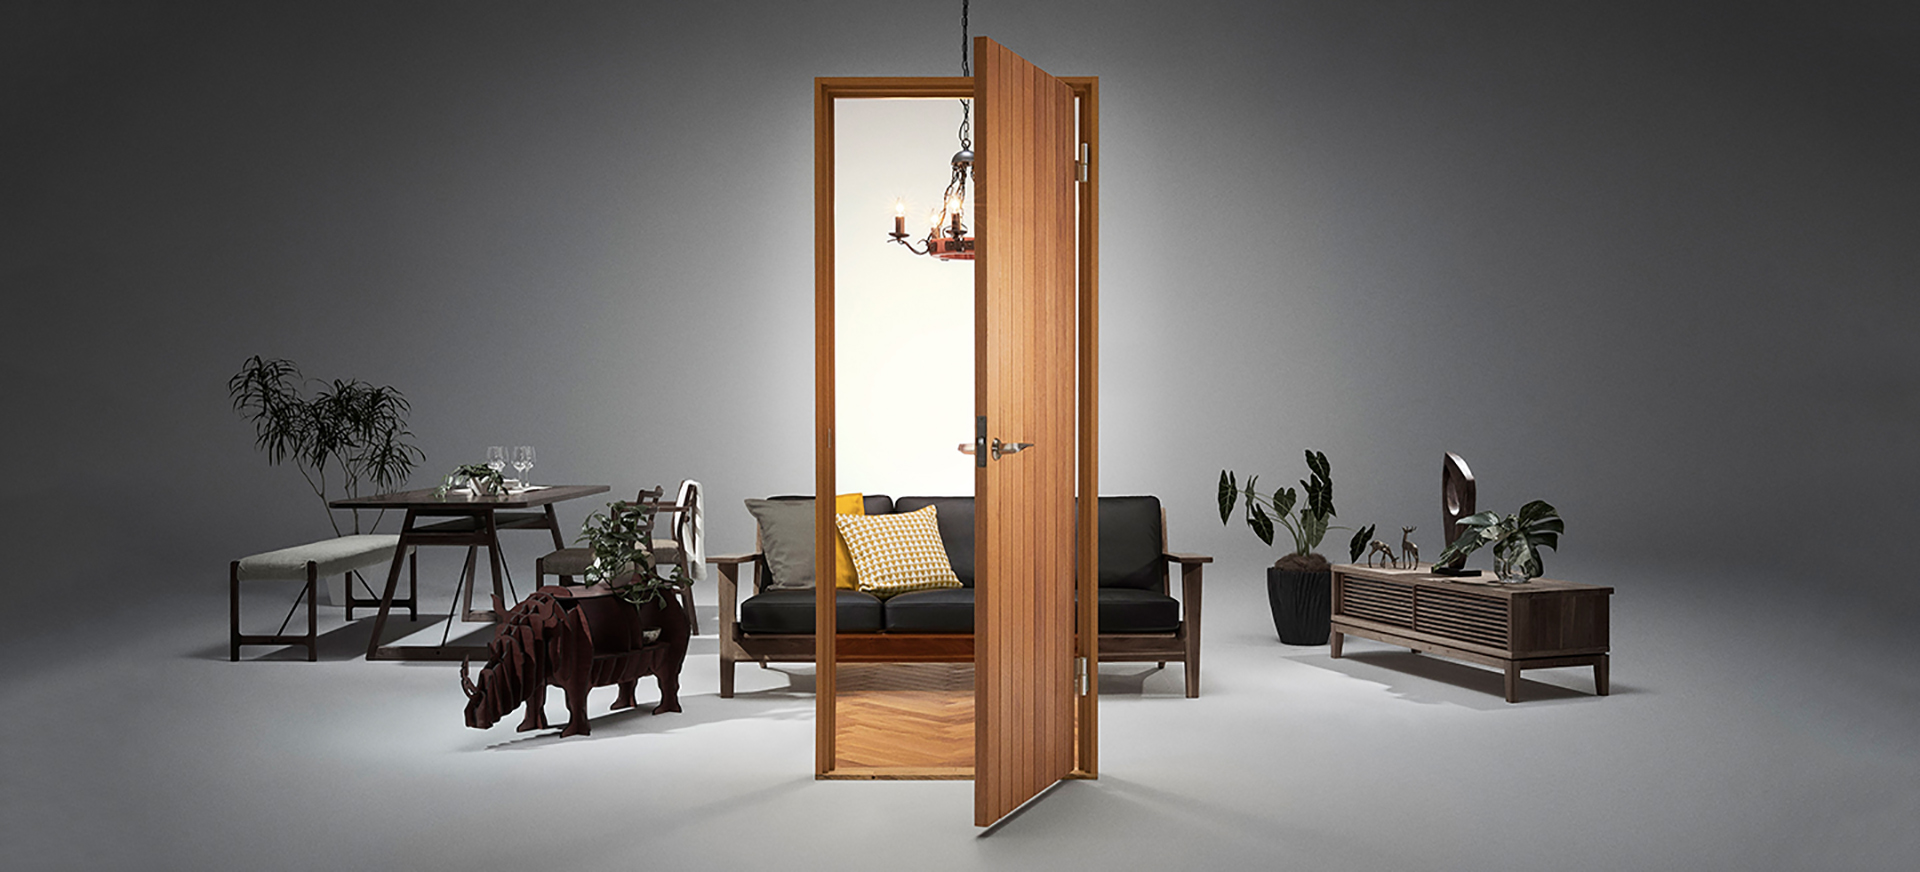
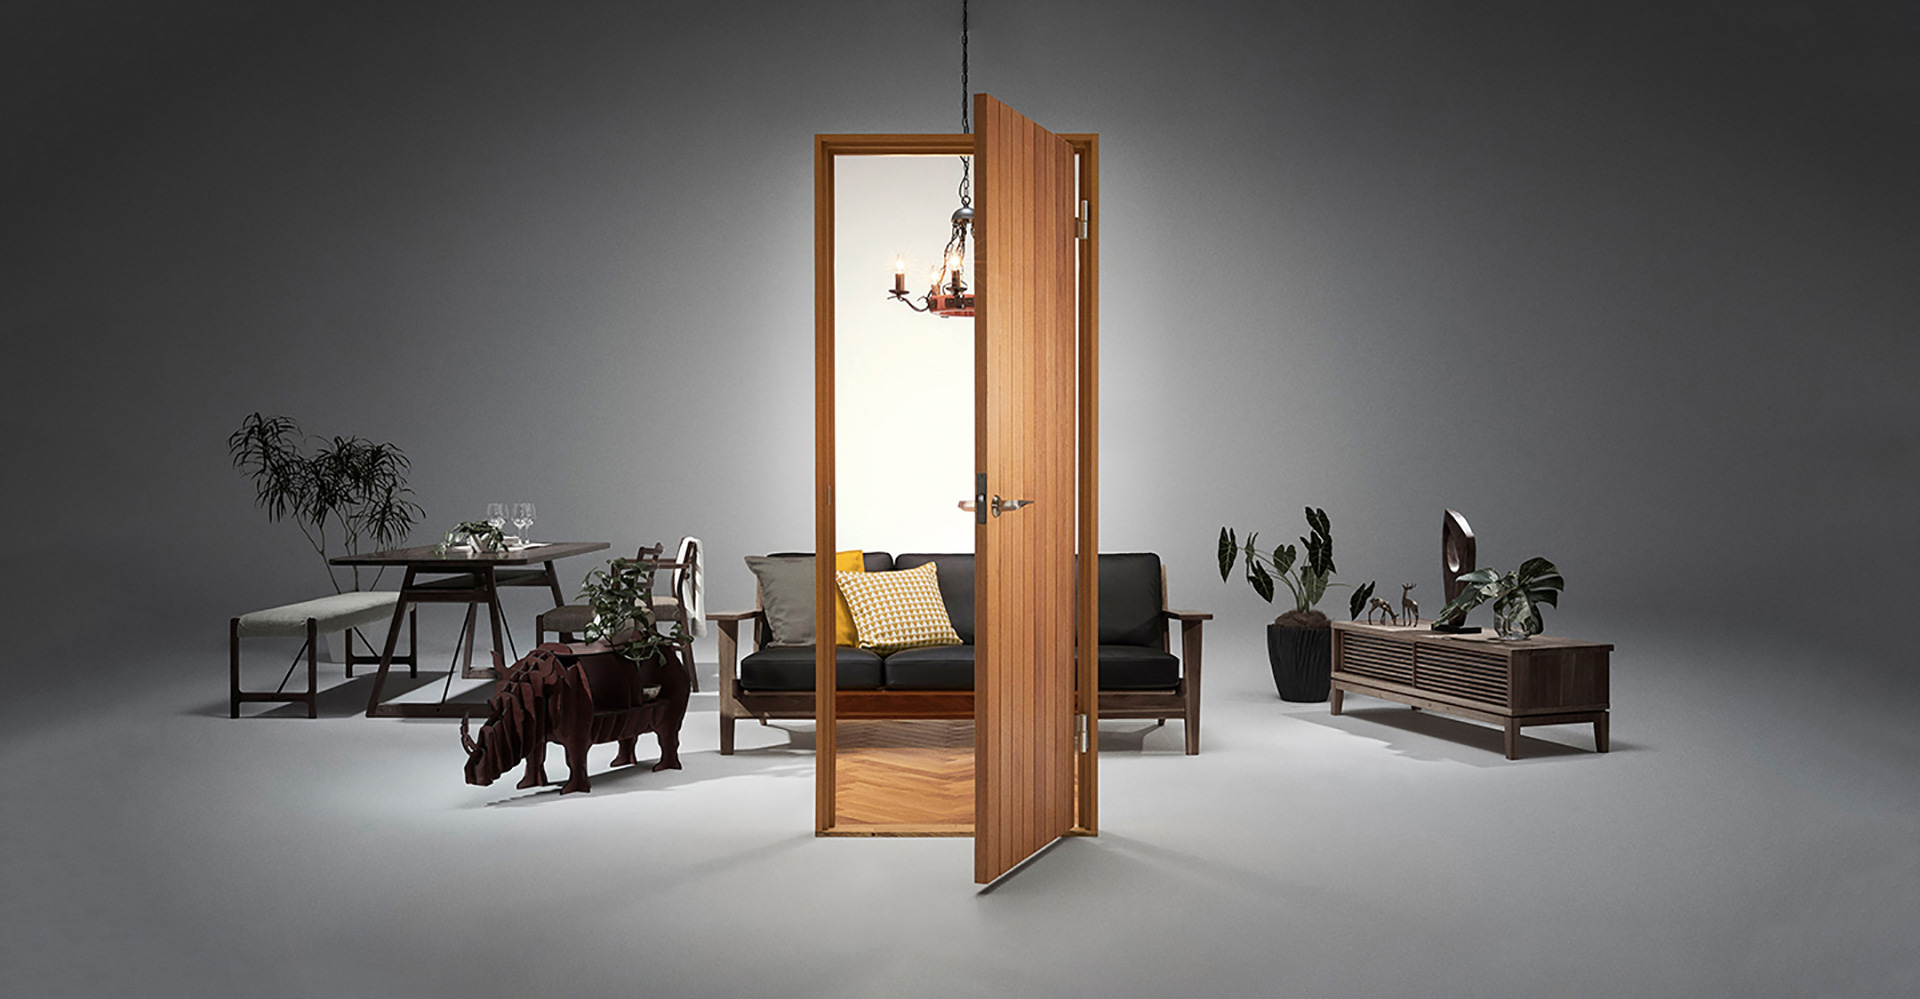
update more css prostyle-residence

diff --git a/prostyle-residence/www/prostyledata/assets/css/mobile.css b/prostyle-residence/www/prostyledata/assets/css/mobile.css
@@ -23,6 +23,10 @@
 	.navbar-nav .freecall {
 		margin-top: -10px;
 	}
+	.bg_common::after {
+        background: url(../images/1x/top-image-prostyle_sp.jpg);
+        background-size: 100%;
+    }
 }
 @media (max-width: 812px) {
 	.hourwoking {
@@ -101,14 +105,14 @@
 	.bsnav-mobile .navbar-nav.navbar_custom {
 		flex-direction: column-reverse;
 	}
-	.banner {
+	/*.banner {
 		height: 82%;
-	}
-	.banner::before {
+	}*/
+	/*.banner::before {
 		height: 80%;
 		background: url('../images/1x/top-image-prostyle_sp.jpg') no-repeat;
 		background-position: center 20px;
-	}
+	}*/
 	.bg_common::before {
 		top: 0;
 		background: url('../images/1x/top-image-prostyle_sp.jpg') no-repeat;
@@ -335,8 +339,8 @@
 		bottom: 85px;
 	}
 	.bsnav {
-		padding-top: 20px;
-		padding-bottom: 20px;
+		padding-top: 11px;
+		padding-bottom: 11px;
 		border-bottom: 1px solid #ccc;
 	}
 	.main_nav {
@@ -349,6 +353,11 @@
 	.navbar-nav .btnInquiries {
 		margin-left: 0;
 		margin-right: 0;
+	}
+
+	.bg_common::after {
+	    background-position: 0 -40px;
+	    background-size: 100%;
 	}
 
 	.section_distribution_record {margin-top: -40px;}

diff --git a/prostyle-residence/www/prostyledata/assets/css/styles.css b/prostyle-residence/www/prostyledata/assets/css/styles.css
@@ -95,7 +95,7 @@ p {margin-bottom: 10px;}
   padding-top: 24px;
   padding-bottom: 24px;
 }
-.navbar-nav .nav-item:hover > .nav-link::after, .navbar-nav .nav-item.active>.nav-link::after {
+.navbar-nav .nav-item:hover > .nav-link::before, .navbar-nav .nav-item.active>.nav-link::before {
   content: '';
   display: block;
   border-bottom: 4px solid #ae8148;
@@ -115,7 +115,7 @@ body {
 .banner {
   height: 100%;
 }
-.banner::before {
+/*.banner::before {
   background: url('../images/1x/top-image-prostyle.jpg');
   background-position: center 45px;
   background-repeat: no-repeat;
@@ -124,14 +124,13 @@ body {
   -moz-background-size: cover;
   -o-background-size: cover;
   position: fixed;
-  /* top: 0; */
   left: 0;
   width: 100%;
   height: 100%;
   content: '';
   z-index: -1;
-}
-.bg_common::before {
+}*/
+.bg_common::after {
   background: url('../images/1x/top-image-prostyle.jpg');
   background-position: center 45px;
   background-repeat: no-repeat;

diff --git a/prostyle-residence/www/prostyledata/assets/css/sgvink.css b/prostyle-residence/www/prostyledata/assets/css/sgvink.css
@@ -1,10 +1,10 @@
-.navbar-nav .nav-item:hover > .dropdown-toggle::after, .navbar-nav .nav-item.active>.dropdown-toggle::after {
+/*.navbar-nav .nav-item:hover > .dropdown-toggle::after, .navbar-nav .nav-item.active>.dropdown-toggle::after {
     border-top: none;
     border-right: none;
     border-left: none;
     width: 100%;
     margin-left: 0;
-}
+}*/
 
 .freecall { font-size: 2.0em; letter-spacing: 0;}
 .hourwoking {font-size: 9pt;}

diff --git a/prostyle-residence/www/prostyledata/assets/js/functions.js b/prostyle-residence/www/prostyledata/assets/js/functions.js
@@ -13,7 +13,7 @@ $(function($) {
         });
     }
 
-    $('.nav-link.dropdown-toggle').click(function(event) {
+    $('.nav-link').click(function(event) {
         /* Act on the event */
         $target = $(this).attr('target') == '_blank' ? '_blank' : '_self';
         window.open($(this).attr('href'), $target);
